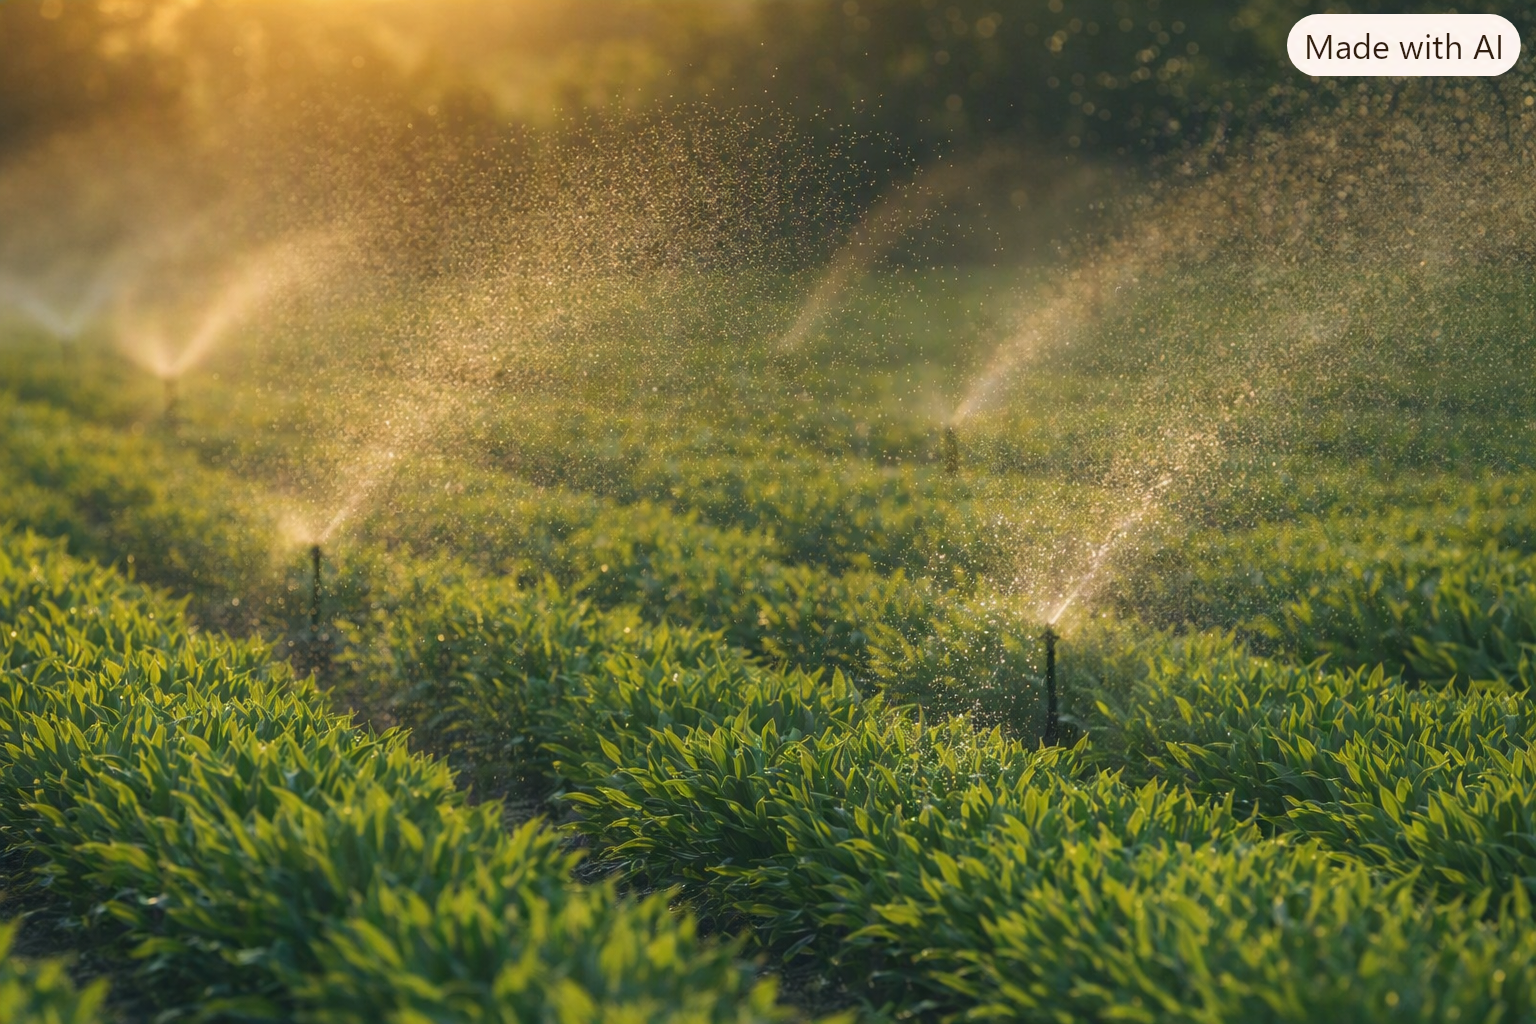
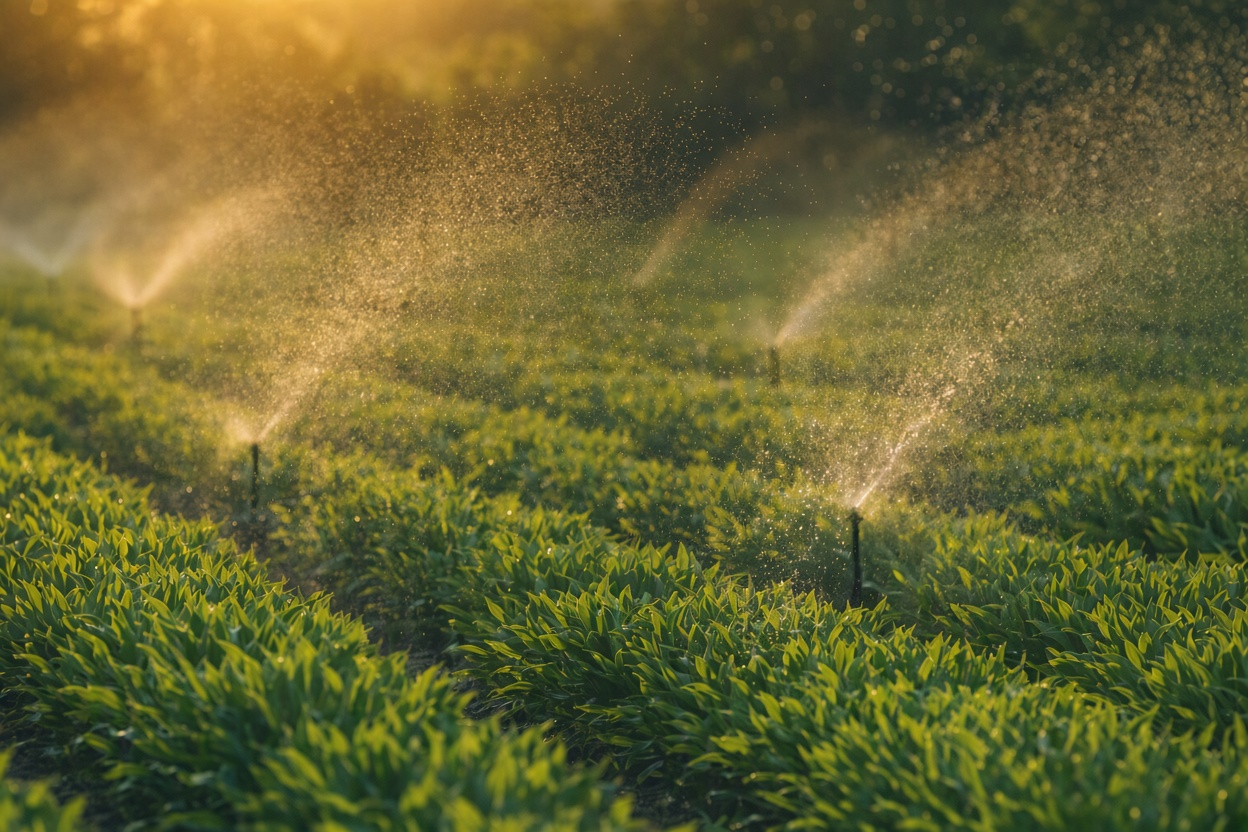
add

diff --git a/public/css/styles.css b/public/css/styles.css
@@ -1449,7 +1449,7 @@ button {
    ABOUT US PAGE
 ===================================================== */
 .about-hero-banner {
-  background-image: url("../images/site/maize.webp");
+  background-image: url("../images/site/irrigation.webp");
   background-repeat: no-repeat;
   background-size: cover;
   color: white;
